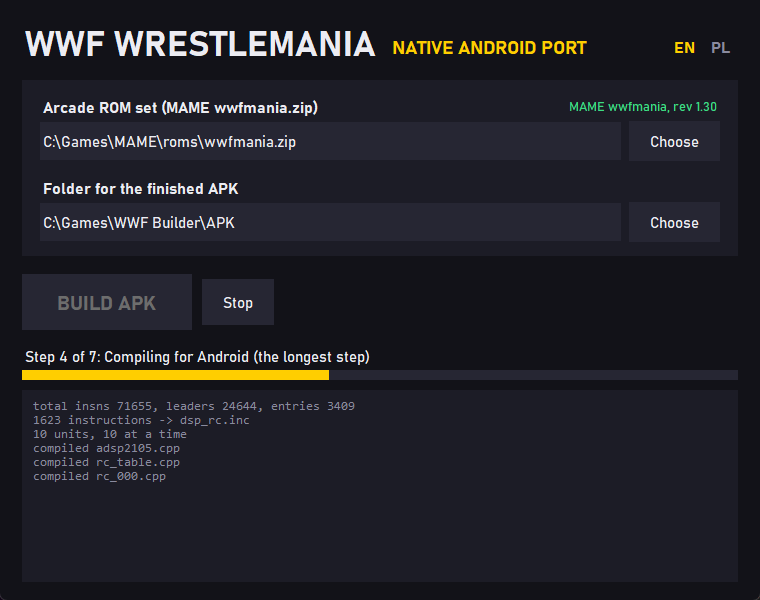
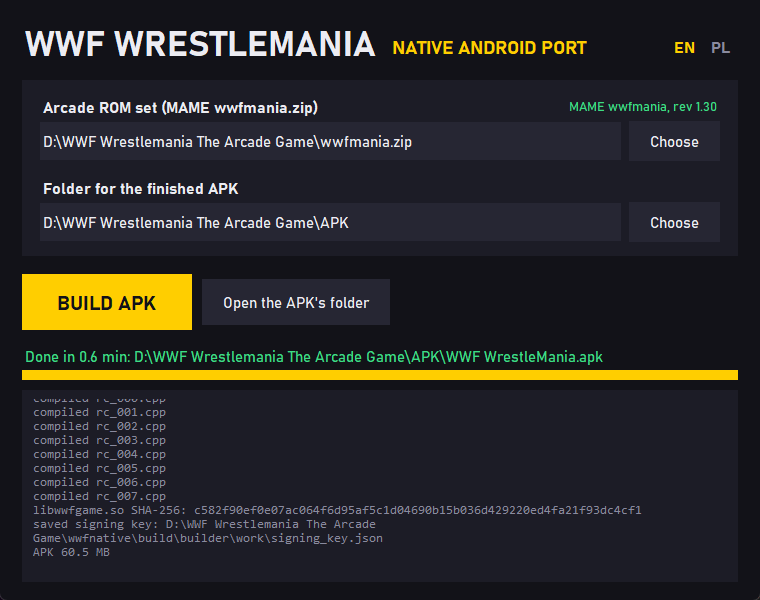
Screenshots of a real build: English in the README, Polish in the guide

Changed region(s): [[0.0303, 0.45, 0.9684, 0.93], [0.0605, 0.21, 0.5447, 0.27], [0.0605, 0.36, 0.4539, 0.39]]

diff --git a/docs/PORADNIK.md b/docs/PORADNIK.md
@@ -10,7 +10,7 @@ To repozytorium zawiera kompilator: jeden program na Windows, który buduje plik
 własnego zestawu ROM z MAME. Nie ma w nim żadnych danych gry i niczego nie pobiera z internetu.
 Wszystko, co powstaje z zestawu ROM, zostaje na Twoim komputerze.
 
-![Kompilator WWF WrestleMania](builder.png)
+![Kompilator WWF WrestleMania](builder_pl.png)
 
 ### Jak zbudować APK
 
